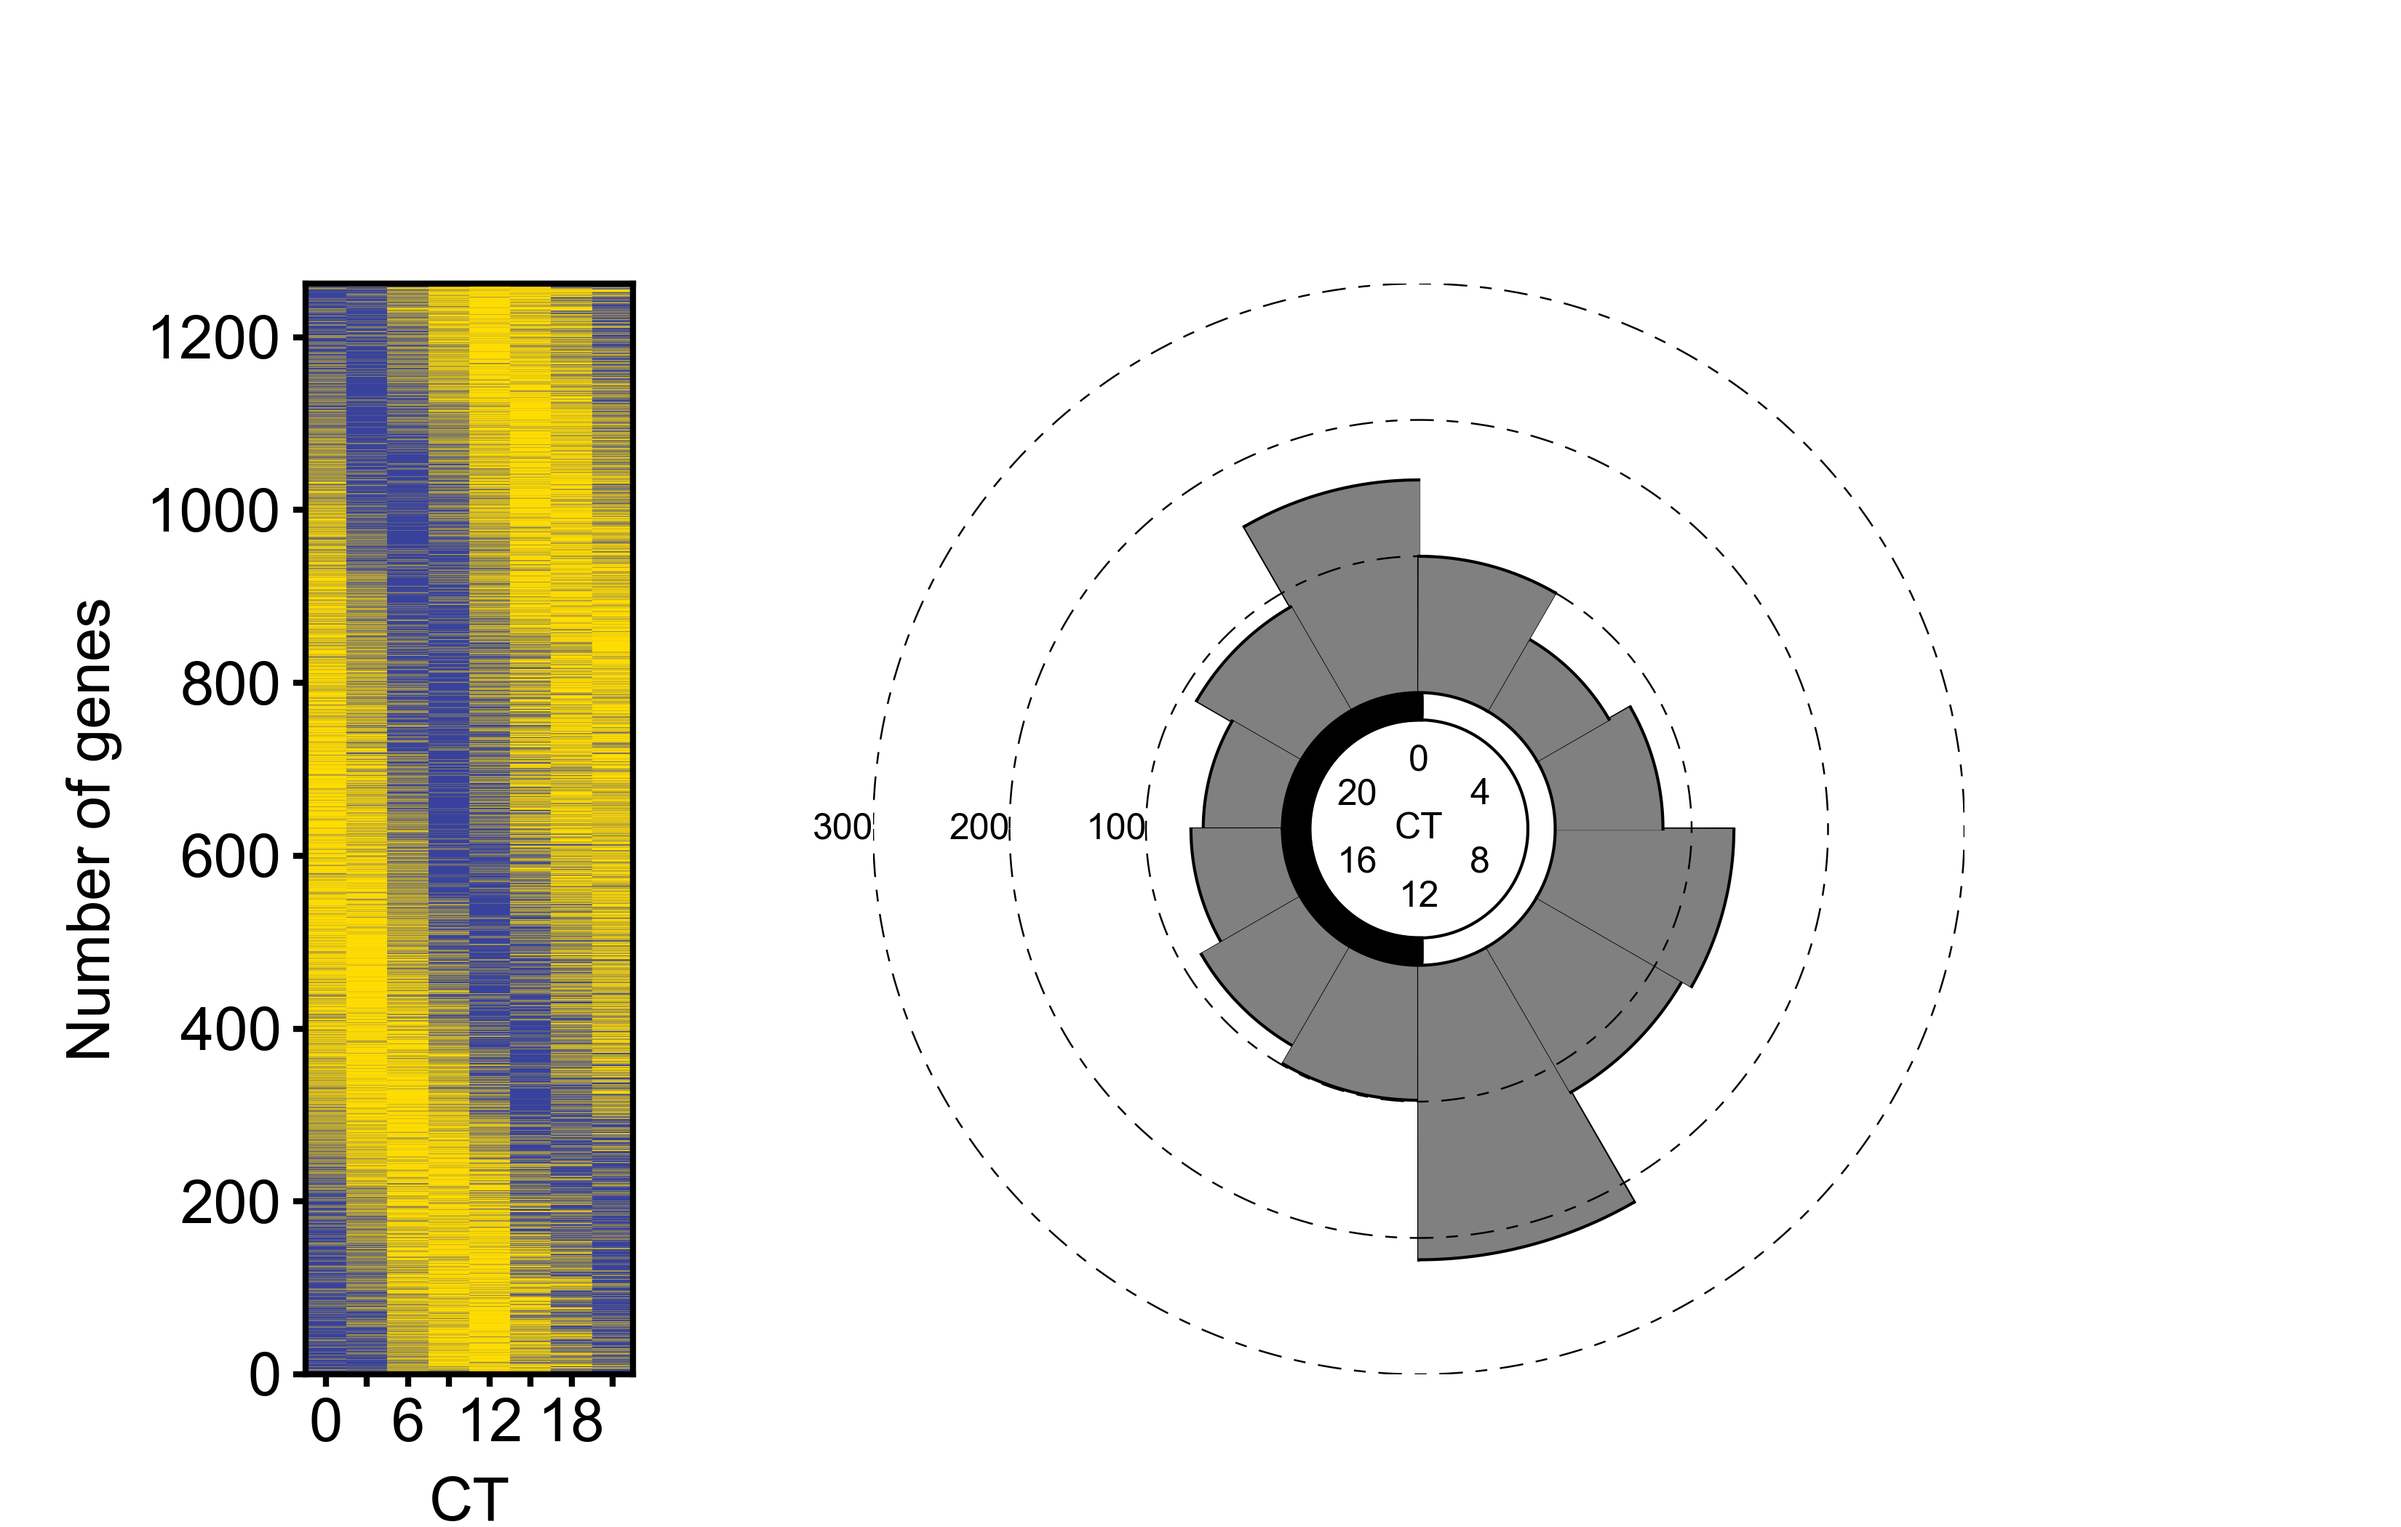
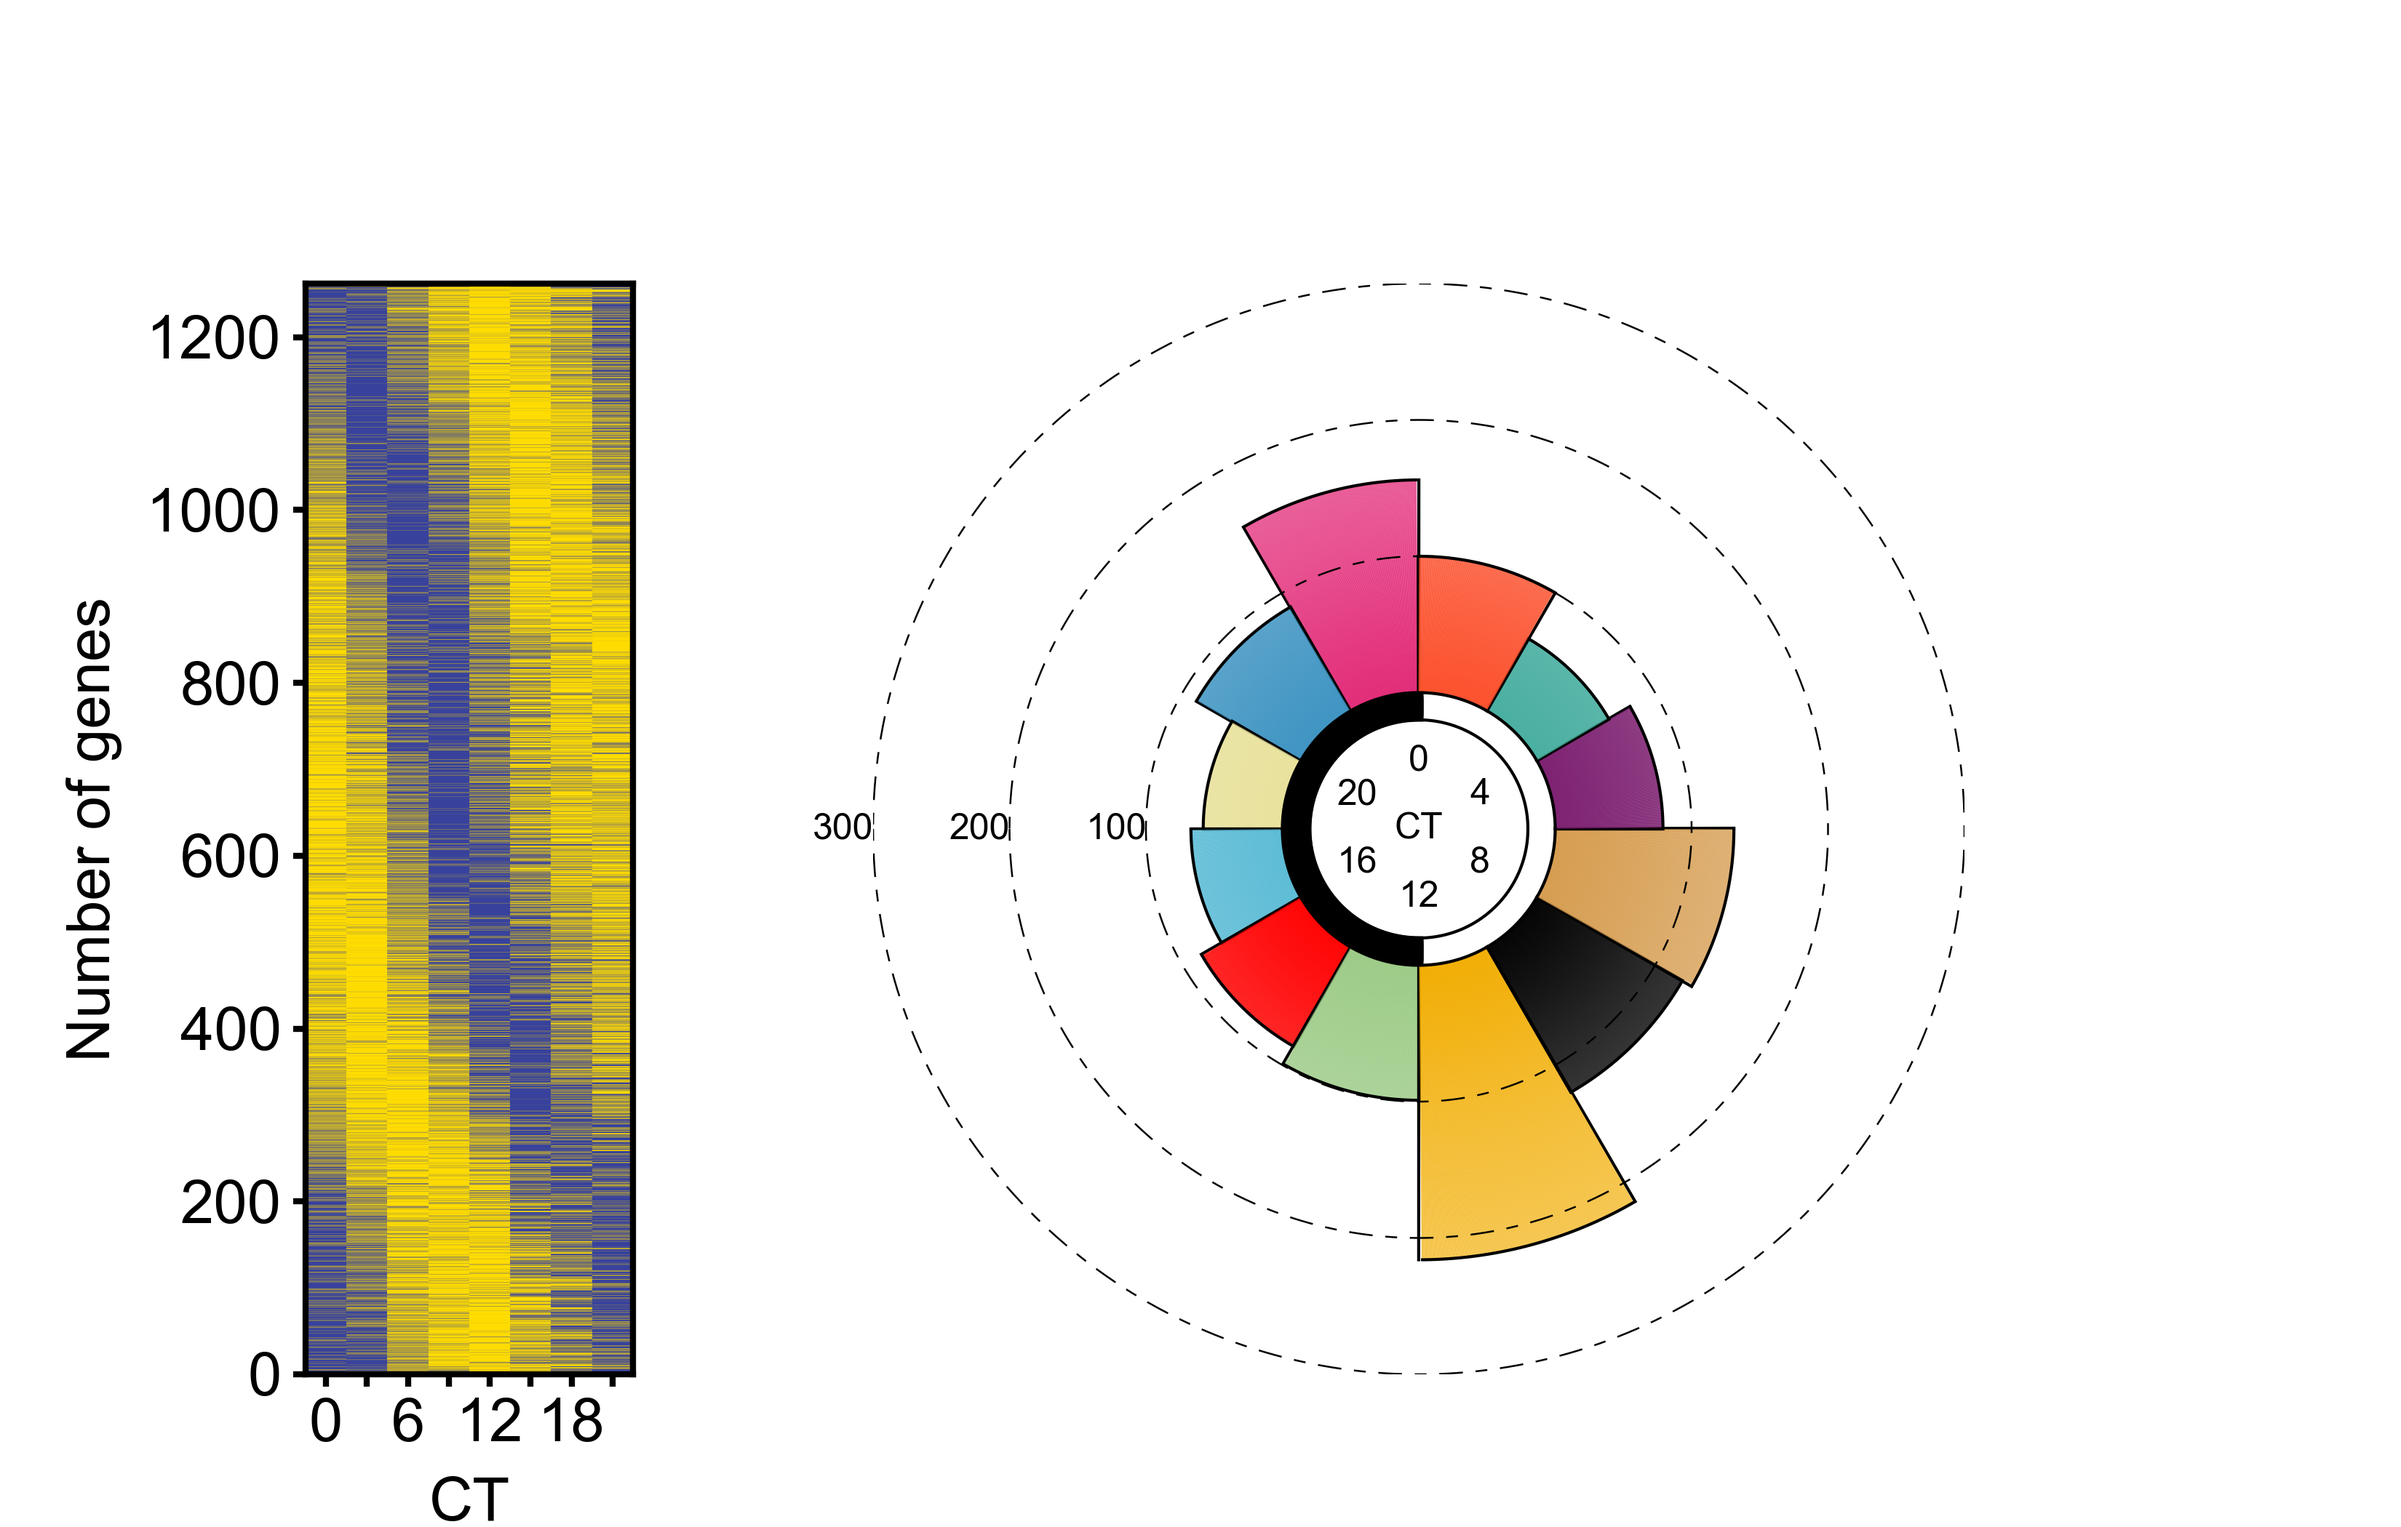
Add files via upload

Changed region(s): [[0.4994, 0.3095, 0.7179, 0.8357]]

diff --git a/histogram_circos/histogram_program.py b/histogram_circos/histogram_program.py
@@ -75,12 +75,18 @@ with open(inFile, "r") as inFile:
 data_count = sorted(data_count, key=lambda x:x[-1], reverse=True)
 
 # Build RGB and color palette
-yellow = (255,220,0)
-white = (255,255,255)
-blue = (56,66,156)
+yellow = (255, 220, 0)
+white = (255, 255, 255)
+blue = (56, 66, 156)
 R = np.linspace(yellow[0]/255, blue[0]/255, 101)
 G = np.linspace(yellow[1]/255, blue[1]/255, 101)
 B = np.linspace(yellow[2]/255, blue[2]/255, 101)
+
+# Color vector
+colors = ["#E32977", "#3C93C2", "#E9E29C", "#5BBCD6", \
+		  "#FF0000", "#9CCB86", "#F2AD00", "#000000", \
+		  "#D69C4E", "#7C1D6F", "#46AEA0", "#FC4E2A", \
+		  "#CCCCCC", "#053061"]
 
 # Heatmap panel
 y = 0
@@ -88,7 +94,8 @@ for value in data_count:
 	x = 0
 	for position in value[:-1]:
 		color = (R[int(position)], G[int(position)], B[int(position)])
-		rectangle = mplpatches.Rectangle([x,y],1,1, facecolor=color, linewidth=0)
+		rectangle = mplpatches.Rectangle([x,y], 1, 1, 
+					facecolor=color, linewidth=0)
 		panel1.add_patch(rectangle)
 		x += 1
 	y += 1
@@ -96,7 +103,7 @@ for value in data_count:
 
 
 # Circular histogram
-for r in np.arange(0.82, 0.98, 0.01):
+for r in np.arange(0.82, 0.98, 0.01): # 0.82, 0.98, 0.01
 	xList = []
 	yList = []
 	for radian in np.linspace(-np.pi/2, np.pi/2, 1000):
@@ -108,7 +115,7 @@ for r in np.arange(0.82, 0.98, 0.01):
 
 	panel2.plot(xList, yList, 
 				marker = "o",
-				markersize = 0.05,
+				markersize = 0.05, #0.05
 				markeredgewidth = 0, 
 				color = "black")
 
@@ -122,8 +129,11 @@ tempArray = list(reversed(arrayCounts))
 for i in range(len(phaseHist[0])):
 	xList = []
 	yList = []
-	limit = np.arange(phaseHist[1][i], (phaseHist[1][i] + 2), 0.01)
-	lineLimit = np.arange(phaseHist[1][i], phaseHist[1][i] + 2.1, 2) 
+	#print(phaseHist[1][i])
+	limit = np.arange(phaseHist[1][i] + 0.033, (phaseHist[1][i] + 2), 0.016) # 2.0, 0.01
+	#print(limit)
+	lineLimit = np.arange(phaseHist[1][i] - 0.001, phaseHist[1][i] + 2.05, 2 + 0.01) # 2.1, 2
+	#print(lineLimit)
 	r = (tempArray[i])/100 + 1
 	for j in lineLimit:
 		scaledVal = (j/24)*(np.pi*2)
@@ -132,25 +142,26 @@ for i in range(len(phaseHist[0])):
 		xIn = [xVal/r, xVal]
 		yIn = [yVal/r, yVal]
 		panel2.plot(xIn, yIn, 
-					markersize = 0,
-					markeredgewidth = 0.5,
+					markersize = 0, # 0
+					markeredgewidth = 0.5, # 0.5
 					color = "black", 
 					linewidth = 0.5) 
 		pass
 
 	# Fills bins	
 	for point in limit:
-		scaledVal = (point/24)*(np.pi*2)
-		xVal = np.cos(scaledVal+(np.pi/2))*r 
-		yVal = np.sin(scaledVal+(np.pi/2))*r
+		scaledVal = (point/24)*(np.pi*2) #- 0.01 shift color
+		xVal = np.cos(scaledVal + (np.pi/2))*r 
+		yVal = np.sin(scaledVal + (np.pi/2))*r
 		xList.append(xVal)
 		yList.append(yVal)
 		xIn = [xVal/r, xVal]
 		yIn = [yVal/r, yVal]
 		panel2.plot(xIn, yIn, 
-					markersize = 0,
+					markersize = 0, 
 					markeredgewidth = 0,
-					color = "grey", 
+					color = colors[i], # "grey", 
+					alpha = 0.7,
 					linewidth = 0.3) 
 		pass
 	
@@ -202,6 +213,7 @@ for r in [0.8, 1]:
 panel2.text(-2.219, 0, "100", verticalalignment="center", horizontalalignment="center", fontsize=6)
 panel2.text(-3.219, 0, "200", verticalalignment="center", horizontalalignment="center", fontsize=6)
 panel2.text(-4.219, 0, "300", verticalalignment="center", horizontalalignment="center", fontsize=6)
+
 # Add centered labels
 panel2.text(0, 0, "CT", verticalalignment="center", horizontalalignment="center", fontsize=6)
 panel2.text(0, 0.5, "0", verticalalignment="center", horizontalalignment="center", fontsize=6)
